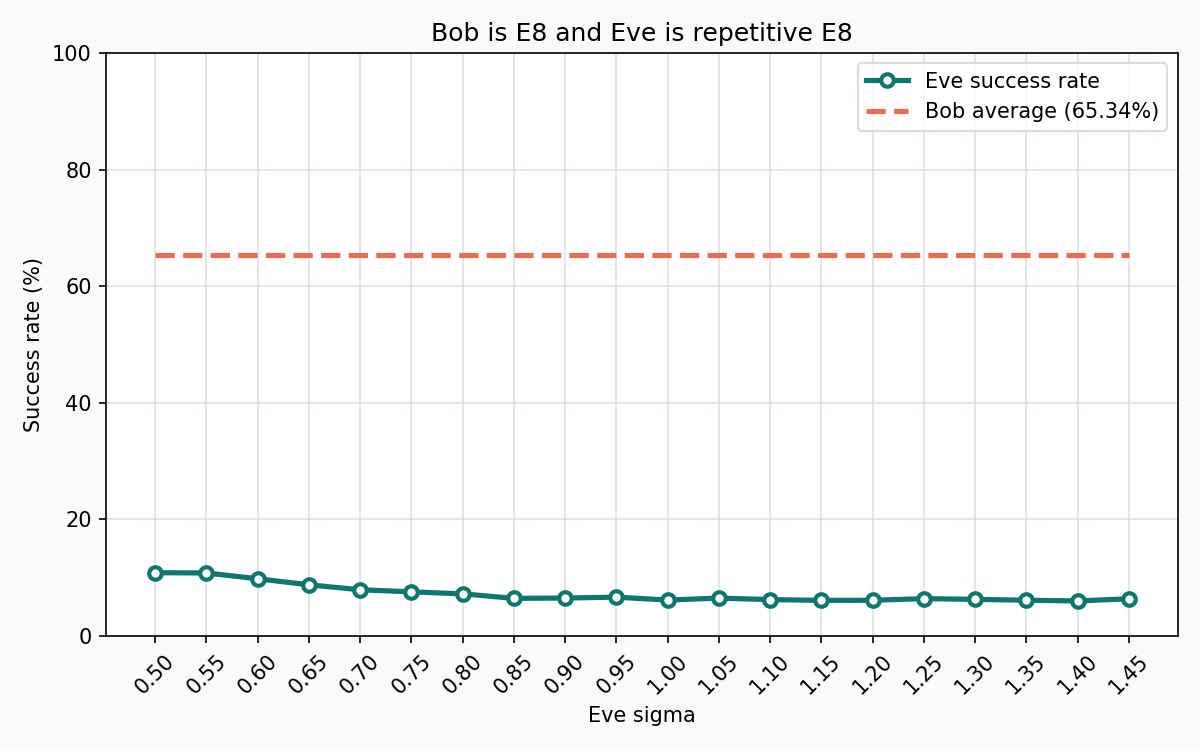
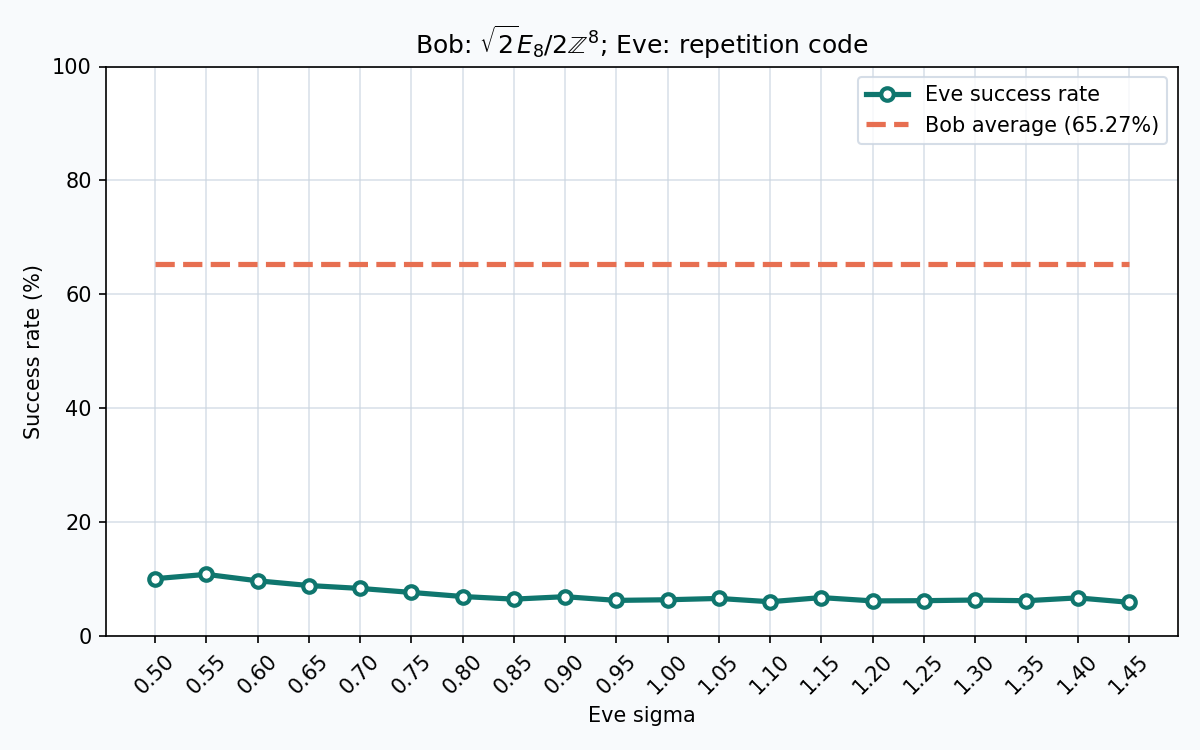
update formatting

diff --git a/main.py b/main.py
@@ -200,7 +200,7 @@ if __name__ == "__main__":
         bob_decode_fn = bob_zkz_decode,
         eve_decode_fn = eve_zkz_decode
     )
-    simulation_results.append(("Z/2Z", "z2z.png", b_avg, e_rates))
+    simulation_results.append((r"$\mathbb{Z}^{2}/2\mathbb{Z}^{2}$", "z2z.png", b_avg, e_rates))
 
     #### Z/4Z implementation ####
     Z4Z_msg_set = [(a, b) for a in range(4) for b in range(4)]
@@ -213,7 +213,7 @@ if __name__ == "__main__":
         bob_decode_fn = bob_zkz_decode,
         eve_decode_fn = eve_zkz_decode
     )
-    simulation_results.append(("Z/4Z", "z4z.png", b_avg, e_rates))
+    simulation_results.append((r"$\mathbb{Z}^{2}/4\mathbb{Z}^{2}$", "z4z.png", b_avg, e_rates))
 
     #### repetitive Z/2Z implementation ####
     rZ2Z_msg_set = [(a, a) for a in range(2)]
@@ -226,7 +226,7 @@ if __name__ == "__main__":
         bob_decode_fn = bob_zkz_decode,
         eve_decode_fn = eve_zkz_decode
     )
-    simulation_results.append(("repetitive Z/2Z", "repetitive_z2z.png", b_avg, e_rates))
+    simulation_results.append((r"Repetition code in $\mathbb{Z}^{2}/2\mathbb{Z}^{2}$", "repetitive_z2z.png", b_avg, e_rates))
 
     #### repetitive Z/4Z implementation ####
     rZ4Z_msg_set = [(a, a) for a in range(4)]
@@ -239,7 +239,7 @@ if __name__ == "__main__":
         bob_decode_fn = bob_zkz_decode,
         eve_decode_fn = eve_zkz_decode
     )
-    simulation_results.append(("repetitive Z/4Z", "repetitive_z4z.png", b_avg, e_rates))
+    simulation_results.append((r"Repetition code in $\mathbb{Z}^{2}/4\mathbb{Z}^{2}$", "repetitive_z4z.png", b_avg, e_rates))
     #### E8 implementation ####
     b_avg, e_rates = simulate(
         title         = "E8",
@@ -250,7 +250,7 @@ if __name__ == "__main__":
         bob_decode_fn = bob_e8_decode,
         eve_decode_fn = eve_e8_decode
     )
-    simulation_results.append(("E8", "e8.png", b_avg, e_rates))
+    simulation_results.append((r"$\sqrt{2}E_8/2\mathbb{Z}^{8}$", "e8.png", b_avg, e_rates))
 
     #### repetitive E8 implementation ####
     REPET_E8_MSG_SET = [
@@ -267,7 +267,7 @@ if __name__ == "__main__":
         bob_decode_fn = bob_e8_decode,
         eve_decode_fn = eve_e8_decode
     )
-    simulation_results.append(("repetitive E8", "repetitive_e8.png", b_avg, e_rates))
+    simulation_results.append((r"Repetition code in $\sqrt{2}E_8/2\mathbb{Z}^{8}$", "repetitive_e8.png", b_avg, e_rates))
 
     #### doubly-even E8 implementation ####
     DEVEN_E8_MSG_SET=[
@@ -286,7 +286,7 @@ if __name__ == "__main__":
         bob_decode_fn = bob_e8_decode,
         eve_decode_fn = eve_e8_decode
     )
-    simulation_results.append(("doubly-even E8", "doubly_even_e8.png", b_avg, e_rates))
+    simulation_results.append((r"Doubly-even code in $\sqrt{2}E_8/2\mathbb{Z}^{8}$", "doubly_even_e8.png", b_avg, e_rates))
 
     #### Bob is E8, Eve is repetitive E8
     b_avg, e_rates = simulate(
@@ -298,7 +298,7 @@ if __name__ == "__main__":
         bob_decode_fn = bob_e8_decode,
         eve_decode_fn = eve_e8_decode
     )
-    simulation_results.append(("Bob is E8 and Eve is repetitive E8", "bob_e8_eve_repetitive_e8.png", b_avg, e_rates))
+    simulation_results.append((r"Bob: $\sqrt{2}E_8/2\mathbb{Z}^{8}$; Eve: repetition code", "bob_e8_eve_repetitive_e8.png", b_avg, e_rates))
 
     for title, filename, b_avg, e_rates in simulation_results:
         fig, ax = plt.subplots(figsize=(8, 5), facecolor=FIG_COLOR)
